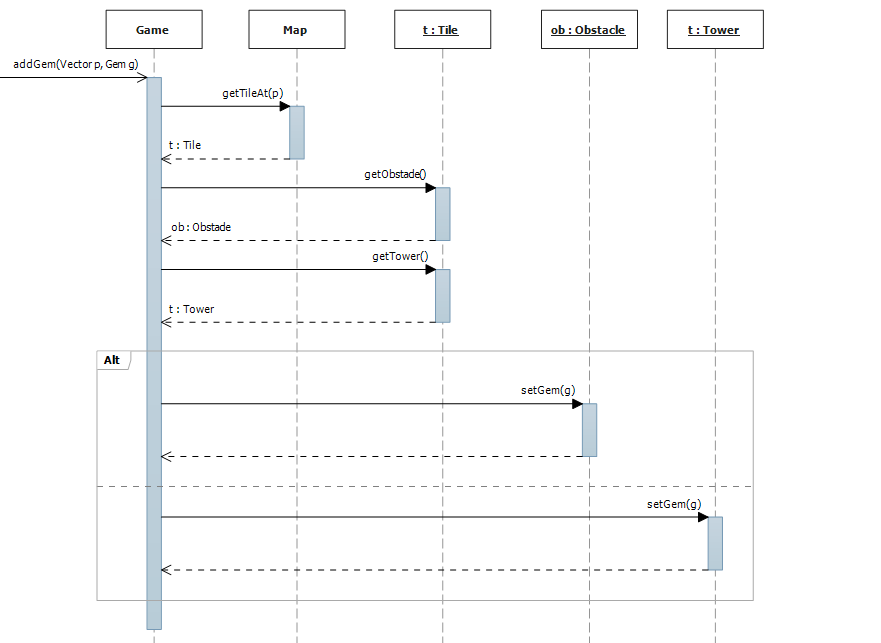
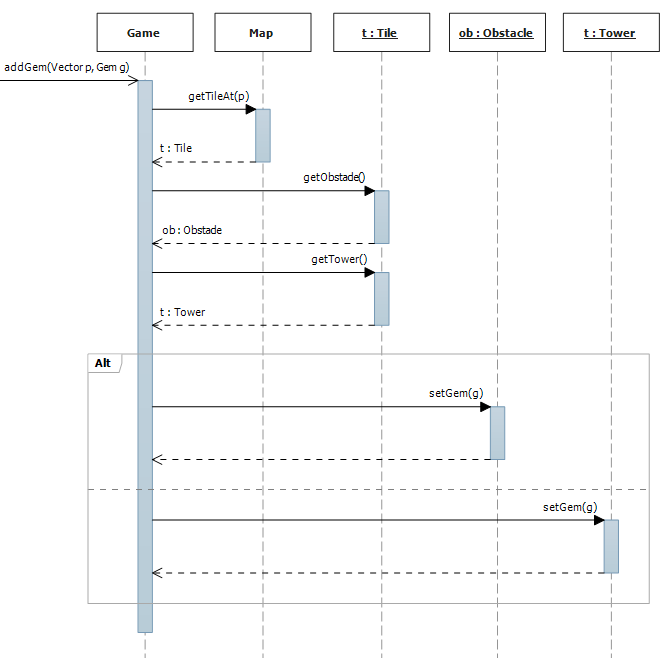
Fixed constructors

diff --git a/doc/chapters/chapter04/sablon04.tex b/doc/chapters/chapter04/sablon04.tex
@@ -156,7 +156,7 @@ Tartlamaz az összes \textbf{Waypoint} referenciát, felelős a kapott fájlból
 	\begin{itemize}
 		\item bool canBuildObstacle(\textbf{Vector}): A \textbf{Waypoint}-ok alapján visszaadja, hogy lehet-e akadályt építeni a megadott helyen.
 		\item bool canBuildTower(\textbf{Vector}): A \textbf{Waypoint}-ok alapján visszaadja, hogy lehet-e tornyot építeni a megadott helyen.
-		\item loadGame(\textbf{String} file): Betölti a kapott elérési útvonalon a fájlt, és felépíti az alapján a pályát.
+		\item Map(\textbf{String} file): Betölti a kapott elérési útvonalon a fájlt, és felépíti az alapján a pályát.
 	\end{itemize}
 \end{itemize}
 
@@ -173,7 +173,7 @@ Felelőssége, felépíteni a listát, amely a beérkező ellenségeket és idő
 \item Metódusok
 	\begin{itemize}
 		\item \textbf{Enemy} getNextEnemy(double time): A spawnList listaból a következő elemet megvizsgaálja, és ha spawnolni kell a következő ellenséget, akkor visszaadja azt.
-		\item loadMission(\textbf{String} file): Betölti a kapott elérési útvonalon a fájlt, és felépíti az alapján a listát (spawnList).
+		\item Mission(\textbf{String} file): Betölti a kapott elérési útvonalon a fájlt, és felépíti az alapján a listát (spawnList).
 	\end{itemize}
 \end{itemize}
 

diff --git a/doc/chapters/chapter03/sablon03.tex b/doc/chapters/chapter03/sablon03.tex
@@ -62,6 +62,7 @@ Az ellenségek pozíciójának, sebességének és életerejének nyilvántartá
 		\item \textbf{EnemyType} type: Az egység típusa.
 		\item double health: Az ellenség fennmaradó életereje.
 		\item \textbf{Vector} position: Pillanatnyi pozíció a pályán.
+		\item Direction dir: Megadja milyen irányban kell mozognia.
 	\end{itemize}
 \item Metódusok
 	\begin{itemize}
@@ -271,7 +272,7 @@ Felelős \textbf{Projectile}-ok létrehozásához, azok megfelelő felparaméter
 
 \begin{figure}[H]
 \begin{center}
-\includegraphics[width=15cm]{images/starting_game.png}
+\includegraphics[width=19cm]{images/starting_game.png}
 \caption{Játék indítása}
 \label{fig:starting_game}
 \end{center}
@@ -319,8 +320,8 @@ Felelős \textbf{Projectile}-ok létrehozásához, azok megfelelő felparaméter
 
 \begin{figure}[H]
 \begin{center}
-\includegraphics[width=15cm]{images/adding_gem.png}
-\caption{Varázskő feltétele}
+\includegraphics[width=17cm]{images/adding_gem.png}
+\caption{Varázskő felvétele}
 \label{fig:adding_gem}
 \end{center}
 \end{figure}

diff --git a/doc/chapters/chapter03/naplo03.tex b/doc/chapters/chapter03/naplo03.tex
@@ -77,6 +77,12 @@ Török: Enemy, EnemyType, Game \newline osztályok}
 
 \bejegyzes
 {2014.03.02.~20:00~}
+{4 óra}
+{\vantal}
+{Szekvenciadiagramok, osztálydiagram készítése. Apróbb módosítások, hibajavítások, konzisztencia ellenőrzése.}
+
+\bejegyzes
+{2014.03.02.~20:00~}
 {2 óra}
 {\vadam}
 {State chart diagramok készítése.}
@@ -86,6 +92,12 @@ Török: Enemy, EnemyType, Game \newline osztályok}
 {3 óra}
 {\vtorok}
 {Diagramok beszúrása, a dokumentum rendezése, formázása, apróbb hibák javítása.}
+
+\bejegyzes
+{2014.03.02.~20:00~}
+{0,5 óra}
+{\vbator}
+{Ellenőrzés, hibajavítás.}
 
 \end{naplo}
 

diff --git a/doc/szoftlab4.tex b/doc/szoftlab4.tex
@@ -28,8 +28,8 @@
 % Nem aktuális sorokat kommentezni
 %
 %\fedlap{2. Követelmény, projekt, funkcionalitás}
-\fedlap{3. Analízis modell kidolgozása 1}
-%\fedlap{4. Analízis modell kidolgozása 2}
+%\fedlap{3. Analízis modell kidolgozása 1}
+\fedlap{4. Analízis modell kidolgozása 2}
 % ...
 %
 % Tartalomjegyzék és ábrák jegyzéke
